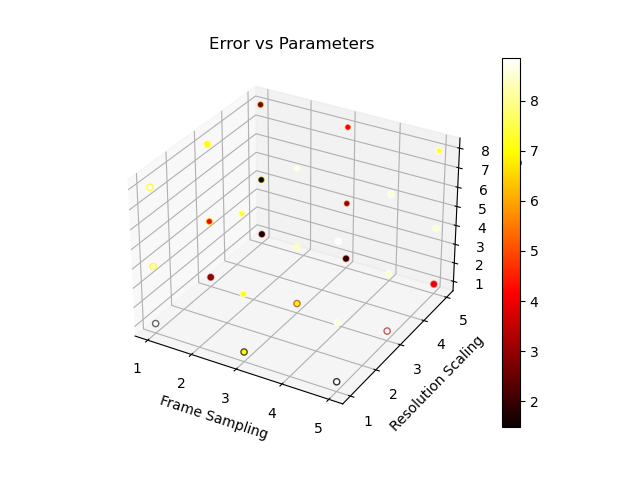
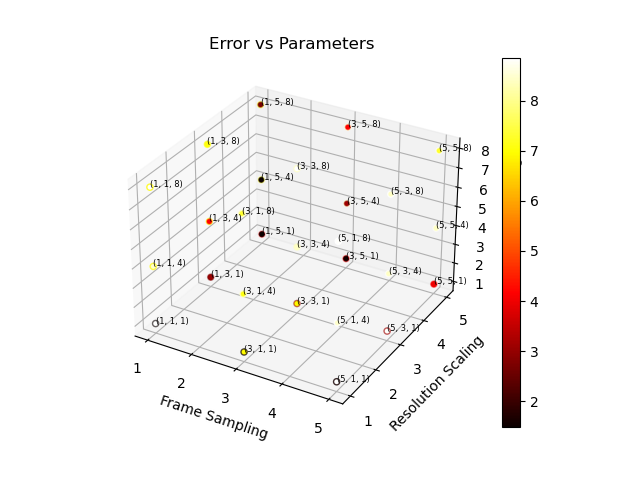
Annotate Data Points

diff --git a/assignment1/src/util/multidimensional_plotter.py b/assignment1/src/util/multidimensional_plotter.py
@@ -46,7 +46,14 @@ def three_d_plots(data):
 
         ax.set_xlabel('Frame Sampling')
         ax.set_ylabel('Resolution Scaling')
-        ax.set_zlabel('Multi-Threading')      
+        ax.set_zlabel('Multi-Threading')  
+
+
+        for xx, yy, zz in zip(x,y,z):
+            label = '(%d, %d, %d)' % (xx, yy, zz)
+            ax.text(xx, yy, zz, label,size=6)
+
+
         if i==0:
             img = ax.scatter(x, y, z, c=c_rt, cmap=plt.hot())
             fig.colorbar(img)
